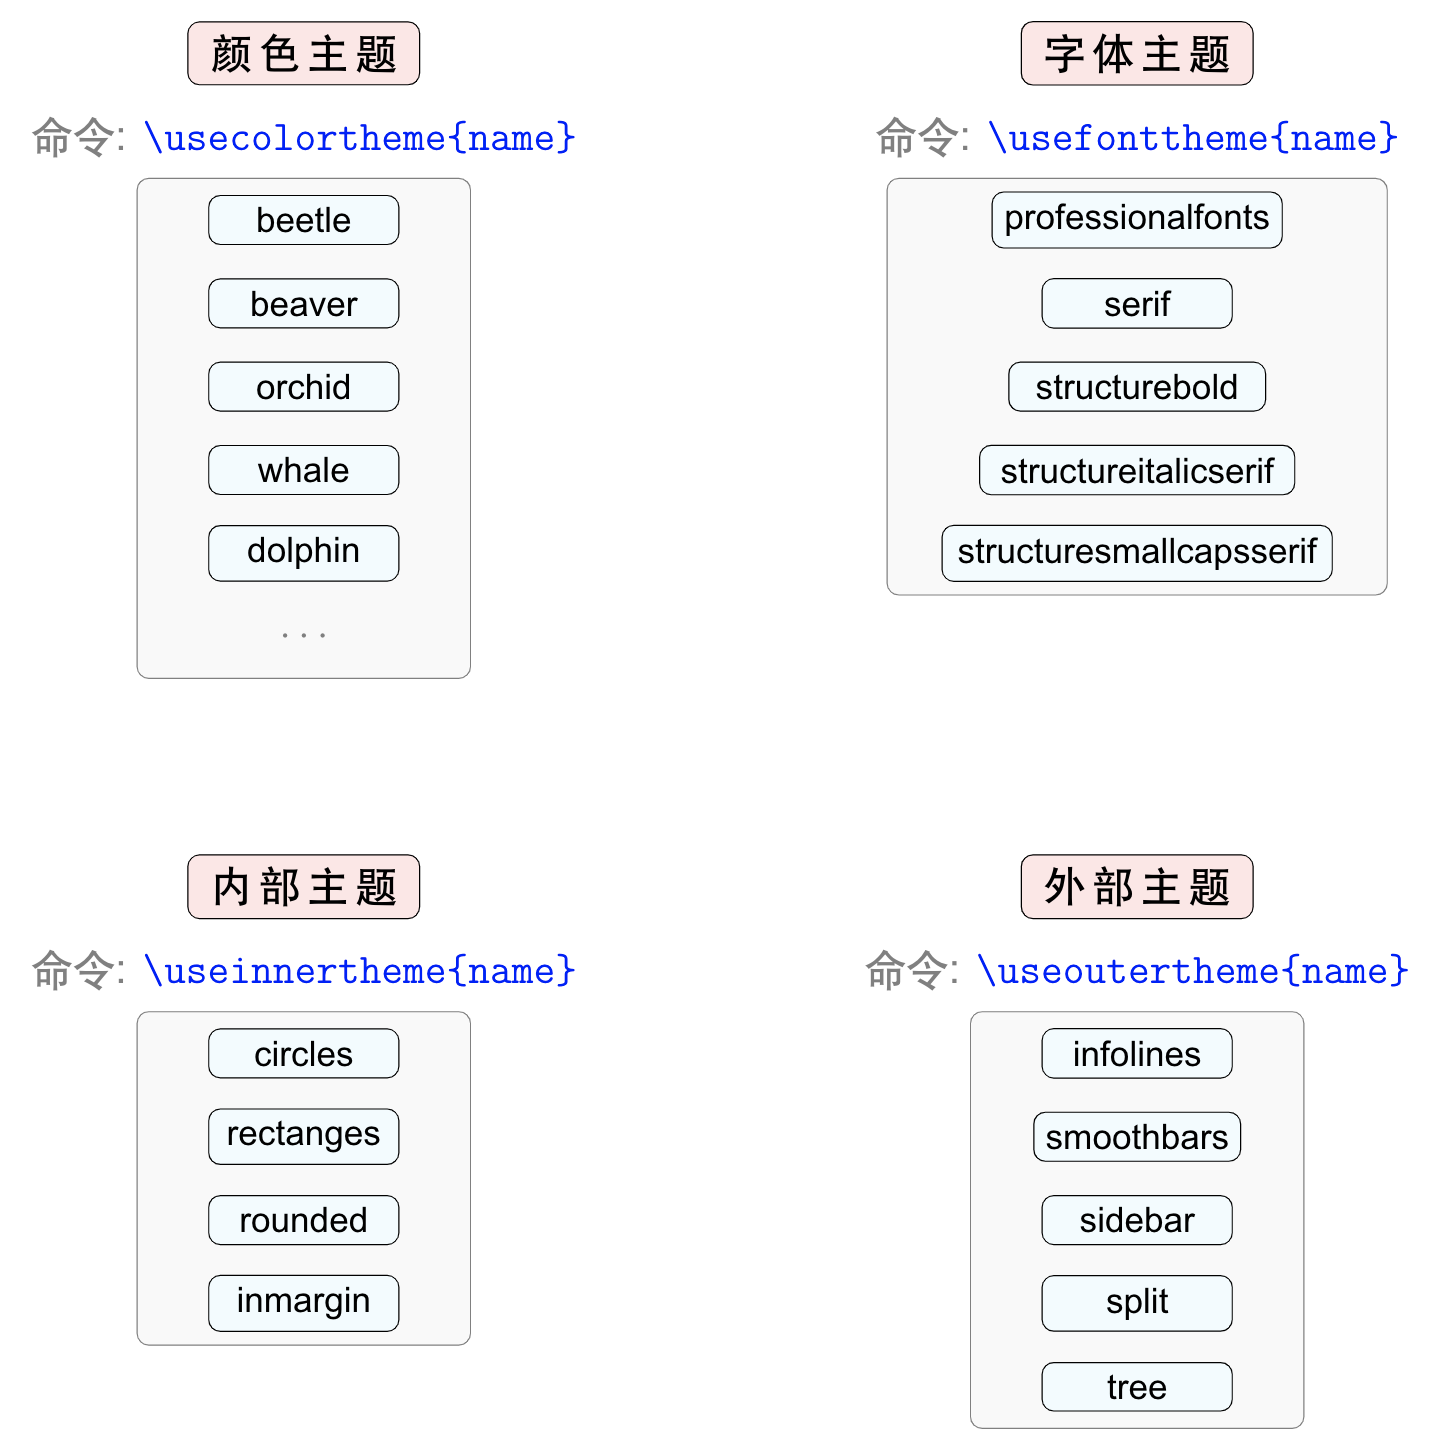
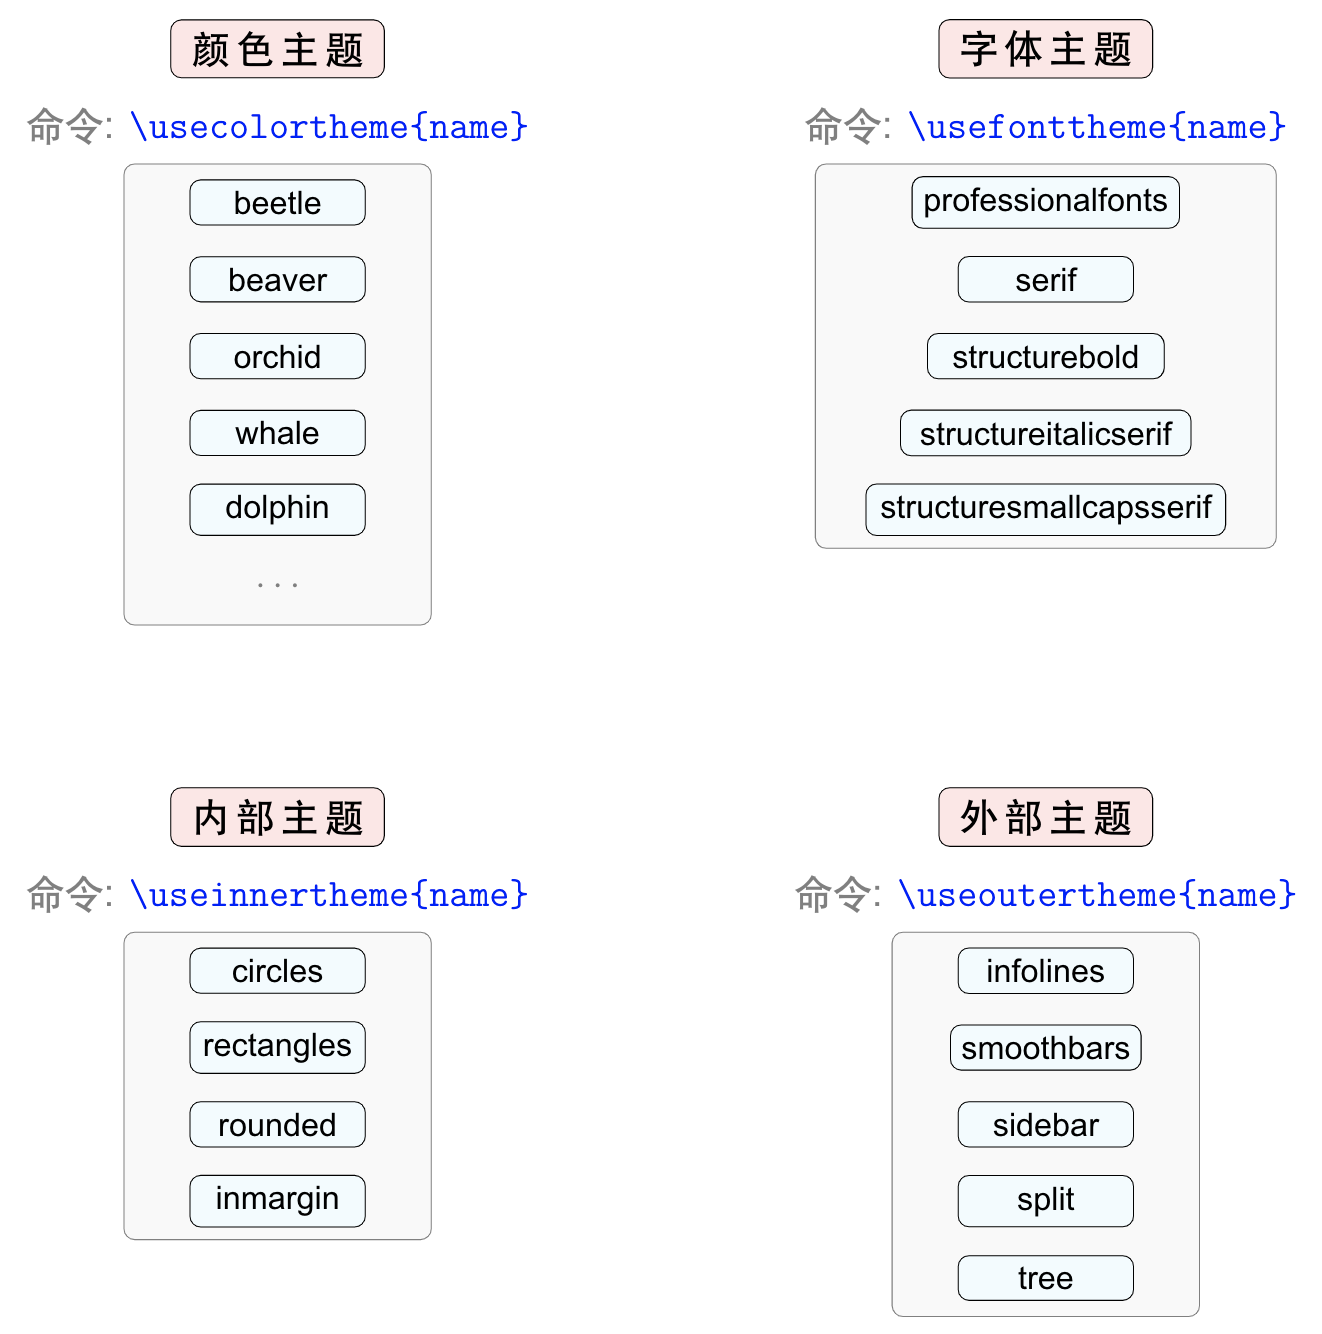
Update images

diff --git a/chapter-9/tikz_graphics/other_themes.tex b/chapter-9/tikz_graphics/other_themes.tex
@@ -60,7 +60,7 @@
 
 \node[draw, align=center, text width=2cm, rounded corners, fill=cyan!5] at (0, -12) {\normalsize circles};
 
-\node[draw, align=center, text width=2cm, rounded corners, fill=cyan!5] at (0, -13) {\normalsize rectanges};
+\node[draw, align=center, text width=2cm, rounded corners, fill=cyan!5] at (0, -13) {\normalsize rectangles};
 
 \node[draw, align=center, text width=2cm, rounded corners, fill=cyan!5] at (0, -14) {\normalsize rounded};
 
